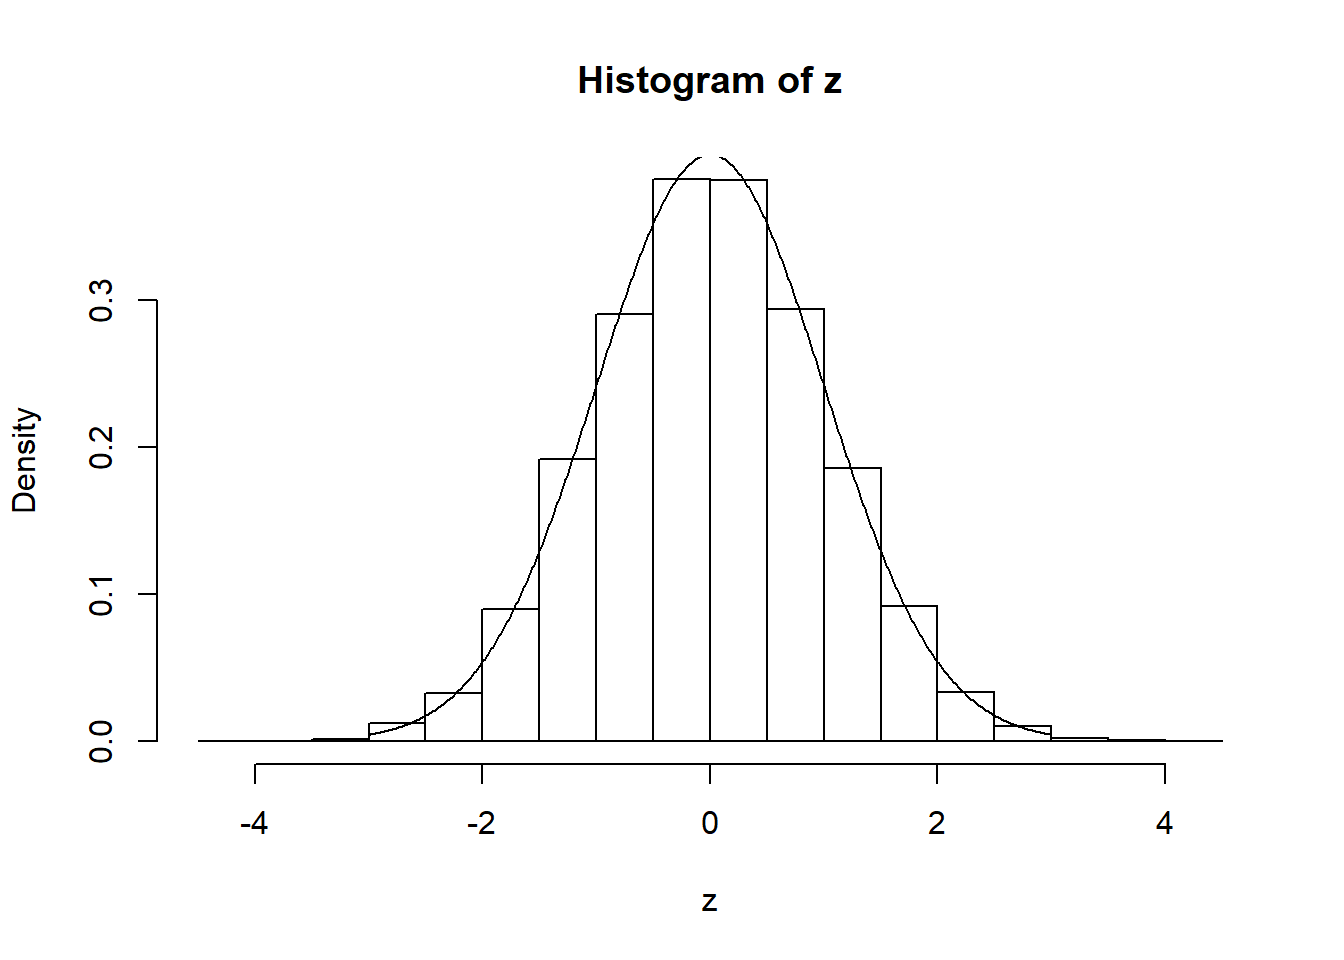
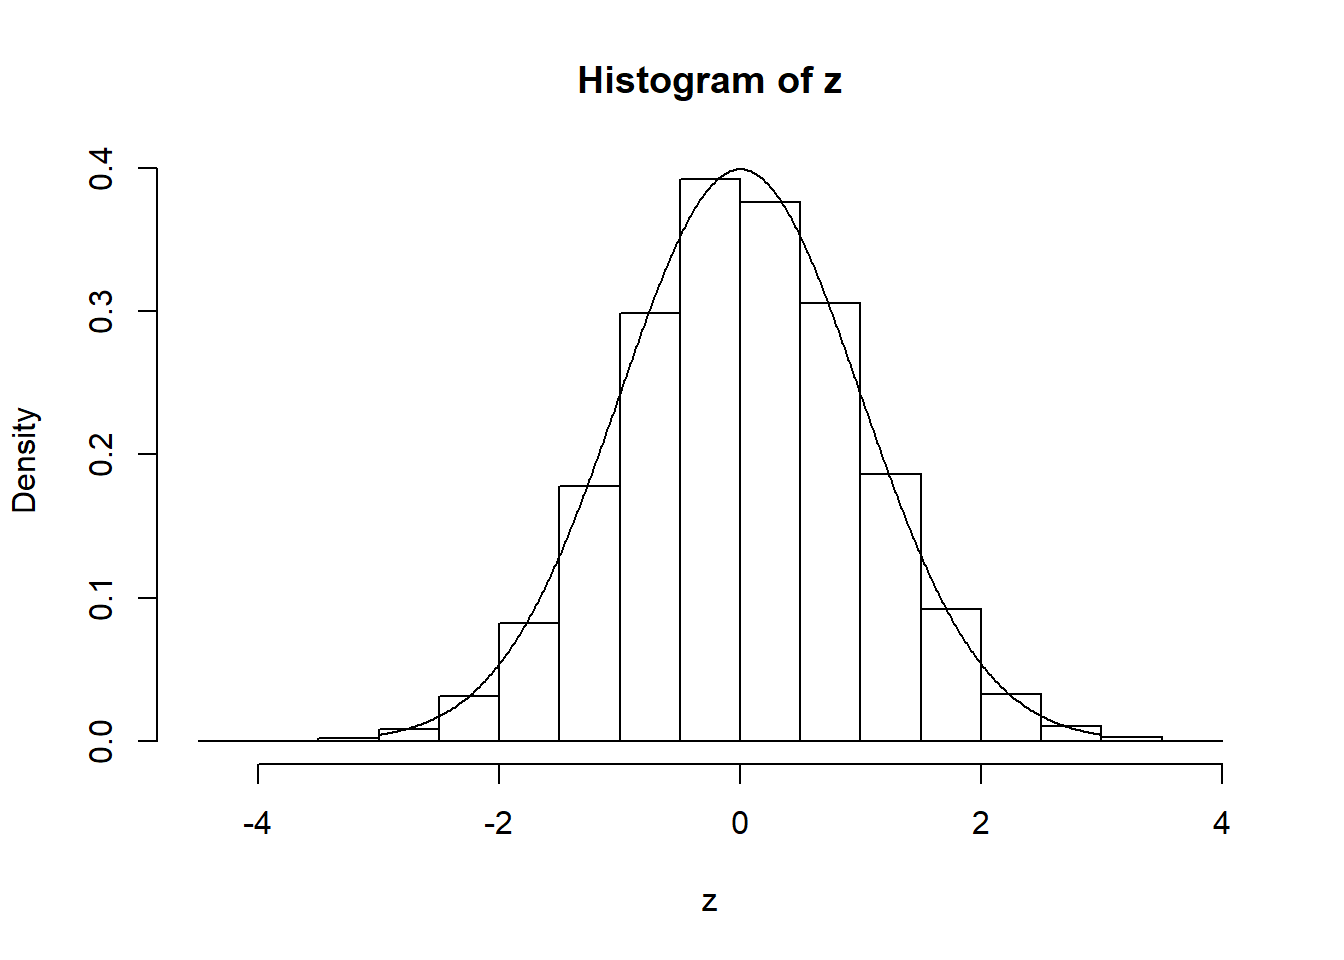
Set for Canvas up to Lesson Two

diff --git a/LJMU_R/tidyverse-for-tidy-data.html b/LJMU_R/tidyverse-for-tidy-data.html
@@ -283,7 +283,7 @@ a %&gt;%
 <span id="cb99-3"><a href="tidyverse-for-tidy-data.html#cb99-3"></a><span class="st">  </span>sum <span class="op">%&gt;%</span></span>
 <span id="cb99-4"><a href="tidyverse-for-tidy-data.html#cb99-4"></a><span class="st">  </span>sqrt <span class="op">%&gt;%</span></span>
 <span id="cb99-5"><a href="tidyverse-for-tidy-data.html#cb99-5"></a><span class="st">  </span>log</span></code></pre></div>
-<pre><code>## [1] 1.134155</code></pre>
+<pre><code>## [1] 1.178463</code></pre>
 <p>The shortcut to quickly enter this in RStudio is Ctrl/Cmd + Alt + M</p>
 </div>
 <div id="loading-data" class="section level2" number="2.3">
@@ -360,18 +360,18 @@ a %&gt;%
 <span id="cb107-3"><a href="tidyverse-for-tidy-data.html#cb107-3"></a>         <span class="dt">y =</span> <span class="kw">runif</span>(<span class="dv">150</span>),</span>
 <span id="cb107-4"><a href="tidyverse-for-tidy-data.html#cb107-4"></a>         <span class="dt">x =</span> x <span class="op">+</span><span class="st"> </span>y)</span></code></pre></div>
 <pre><code>## # A tibble: 150 x 7
-##    ID    DOB        Gender Ht    Wgt       x      y
-##    &lt;chr&gt; &lt;chr&gt;      &lt;chr&gt;  &lt;chr&gt; &lt;chr&gt; &lt;dbl&gt;  &lt;dbl&gt;
-##  1 001   22/03/1965 m      5 6   7 1   0.629 0.0866
-##  2 002   17/04/1977 f      5 9   11 0  1.57  0.883 
-##  3 003   24/07/1966 f      5 4   9 8   0.700 0.127 
-##  4 004   22/02/1985 Female 5 7   11 1  1.90  0.930 
-##  5 005   30/07/1985 M      6 0   10 10 1.07  0.524 
-##  6 006   09/07/1987 male   6 2   11 12 1.11  0.843 
-##  7 007   23/01/1995 female 5 10  10 2  0.700 0.189 
-##  8 008   31/12/1992 M      6 3   12 1  1.13  0.585 
-##  9 009   24/01/1952 Male   5 4   7 10  0.922 0.419 
-## 10 010   11/06/1953 F      5 2   8 6   1.71  0.934 
+##    ID    DOB        Gender Ht    Wgt       x     y
+##    &lt;chr&gt; &lt;chr&gt;      &lt;chr&gt;  &lt;chr&gt; &lt;chr&gt; &lt;dbl&gt; &lt;dbl&gt;
+##  1 001   22/03/1965 m      5 6   7 1   1.37  0.762
+##  2 002   17/04/1977 f      5 9   11 0  0.764 0.508
+##  3 003   24/07/1966 f      5 4   9 8   0.844 0.528
+##  4 004   22/02/1985 Female 5 7   11 1  1.30  0.604
+##  5 005   30/07/1985 M      6 0   10 10 1.43  0.478
+##  6 006   09/07/1987 male   6 2   11 12 0.715 0.228
+##  7 007   23/01/1995 female 5 10  10 2  0.980 0.330
+##  8 008   31/12/1992 M      6 3   12 1  0.424 0.357
+##  9 009   24/01/1952 Male   5 4   7 10  1.61  0.978
+## 10 010   11/06/1953 F      5 2   8 6   0.803 0.286
 ## # ... with 140 more rows</code></pre>
 <p>Note that this is the same as running <code>mutate(dat,x=runif(150),y=runif(150),x=x+y)</code>.</p>
 <p>Right now, we’ve not stored the output from the previous <code>mutate()</code> call, <code>dat</code> is still as it was when we loaded it with the <code>ID</code> variable stored as a <code>character</code>. See:</p>

diff --git a/LJMU_R/introduction-to-r.html b/LJMU_R/introduction-to-r.html
@@ -297,7 +297,7 @@ code span.wa { color: #60a0b0; font-weight: bold; font-style: italic; } /* Warni
 <pre><code>## [1] 1 2 3</code></pre>
 <p>I used a little bit of Jargon there, but to keep things clear. A <strong>function</strong> is a command that tells R to do <em>something</em> and an <strong>argument</strong> is the information or data you give to the function so it can do it’s job. Sometimes functions don’t need arguments:</p>
 <div class="sourceCode" id="cb10"><pre class="sourceCode r"><code class="sourceCode r"><span id="cb10-1"><a href="introduction-to-r.html#cb10-1"></a><span class="kw">Sys.time</span>()</span></code></pre></div>
-<pre><code>## [1] &quot;2020-04-10 09:09:11 BST&quot;</code></pre>
+<pre><code>## [1] &quot;2020-04-10 09:15:58 BST&quot;</code></pre>
 <p>But the key to remember is that a function has <em>brackets</em> <code>()</code> right after it’s name.</p>
 <p>And, a word of warning, R is <strong>Case Sensitive</strong>. This means you need to be careful that you use upper and lower case appropriately.</p>
 <div class="sourceCode" id="cb12"><pre class="sourceCode r"><code class="sourceCode r"><span id="cb12-1"><a href="introduction-to-r.html#cb12-1"></a><span class="kw">sys.time</span>()</span></code></pre></div>
@@ -555,7 +555,7 @@ F(x) = \int_{-\infty}^x f(u) \;\textrm{d}u = \textrm{Prob}\left(X &lt; x\right)
 <h4><span class="header-section-number">1.5.1.4</span> Random Function</h4>
 <div class="sourceCode" id="cb91"><pre class="sourceCode r"><code class="sourceCode r"><span id="cb91-1"><a href="introduction-to-r.html#cb91-1"></a>z &lt;-<span class="st"> </span><span class="kw">rnorm</span>(<span class="dv">100</span>, <span class="dt">mean =</span> <span class="dv">0</span>, <span class="dt">sd =</span> <span class="dv">1</span>)</span>
 <span id="cb91-2"><a href="introduction-to-r.html#cb91-2"></a><span class="kw">head</span>(z)</span></code></pre></div>
-<pre><code>## [1]  0.53785682 -1.58598364  0.43888631  0.21903569  0.09410968 -2.96868429</code></pre>
+<pre><code>## [1]  0.6173312 -0.5876519 -1.7288775 -0.8932937  0.1812625 -0.1631914</code></pre>
 <p>If you were to print out the <code>z</code> variable, you’d see 100 random numbers. The first argument we pass to the function <code>rnorm()</code> tells it how many random numbers to generate. These random numbers have been drawn from the Standard Normal distribution and so they will follow that distribution. We can see this with the following plot:</p>
 <div class="sourceCode" id="cb93"><pre class="sourceCode r"><code class="sourceCode r"><span id="cb93-1"><a href="introduction-to-r.html#cb93-1"></a><span class="kw">hist</span>(z)</span></code></pre></div>
 <p><img src="_main_files/figure-html/unnamed-chunk-44-1.png" width="672" style="display: block; margin: auto;" />

diff --git a/LJMU_R/index.html b/LJMU_R/index.html
@@ -230,7 +230,7 @@ code span.wa { color: #60a0b0; font-weight: bold; font-style: italic; } /* Warni
 <div style="float:left;position:relative;padding-right:30px;">
 <p><img src="images/LJMU_R.png" id="id" class="class" width="200" /></p>
 </div>
-<p>Welcome to the Lecture Notes for LJMU’s R Tutorial. Please use the links on the left to browse through the notes. If the links don’t appear, click the three bars (<img src="images/Three_Bars.png" id="id" class="class" height="16" />) in the top left. Or, view at it’s <a href="https://michaelbarrowman.co.uk/Tutorials/LJMU_R">source</a></p>
+<p>Welcome to the Lecture Notes for LJMU’s R Tutorial. Please use the contents list on the left to browse through the notes. You can expand or minimise the contents by clicking the three bars (<img src="images/Three_Bars.png" id="id" class="class" height="16" />) in the top left.</p>
 
 </div>
             </section>
